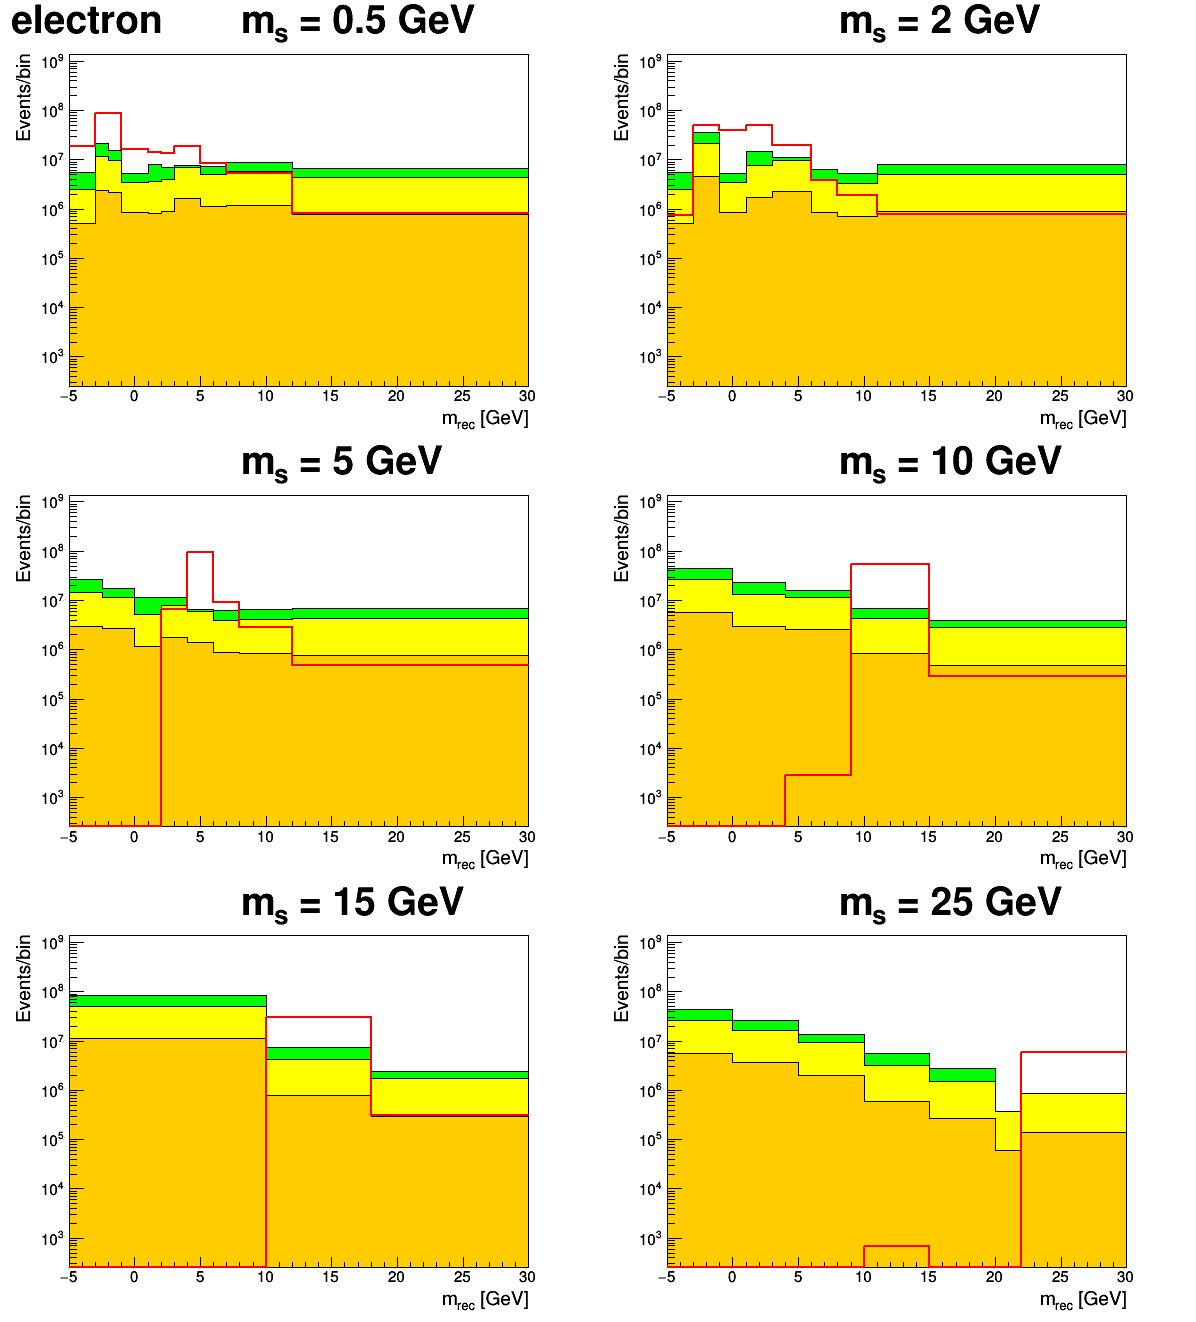
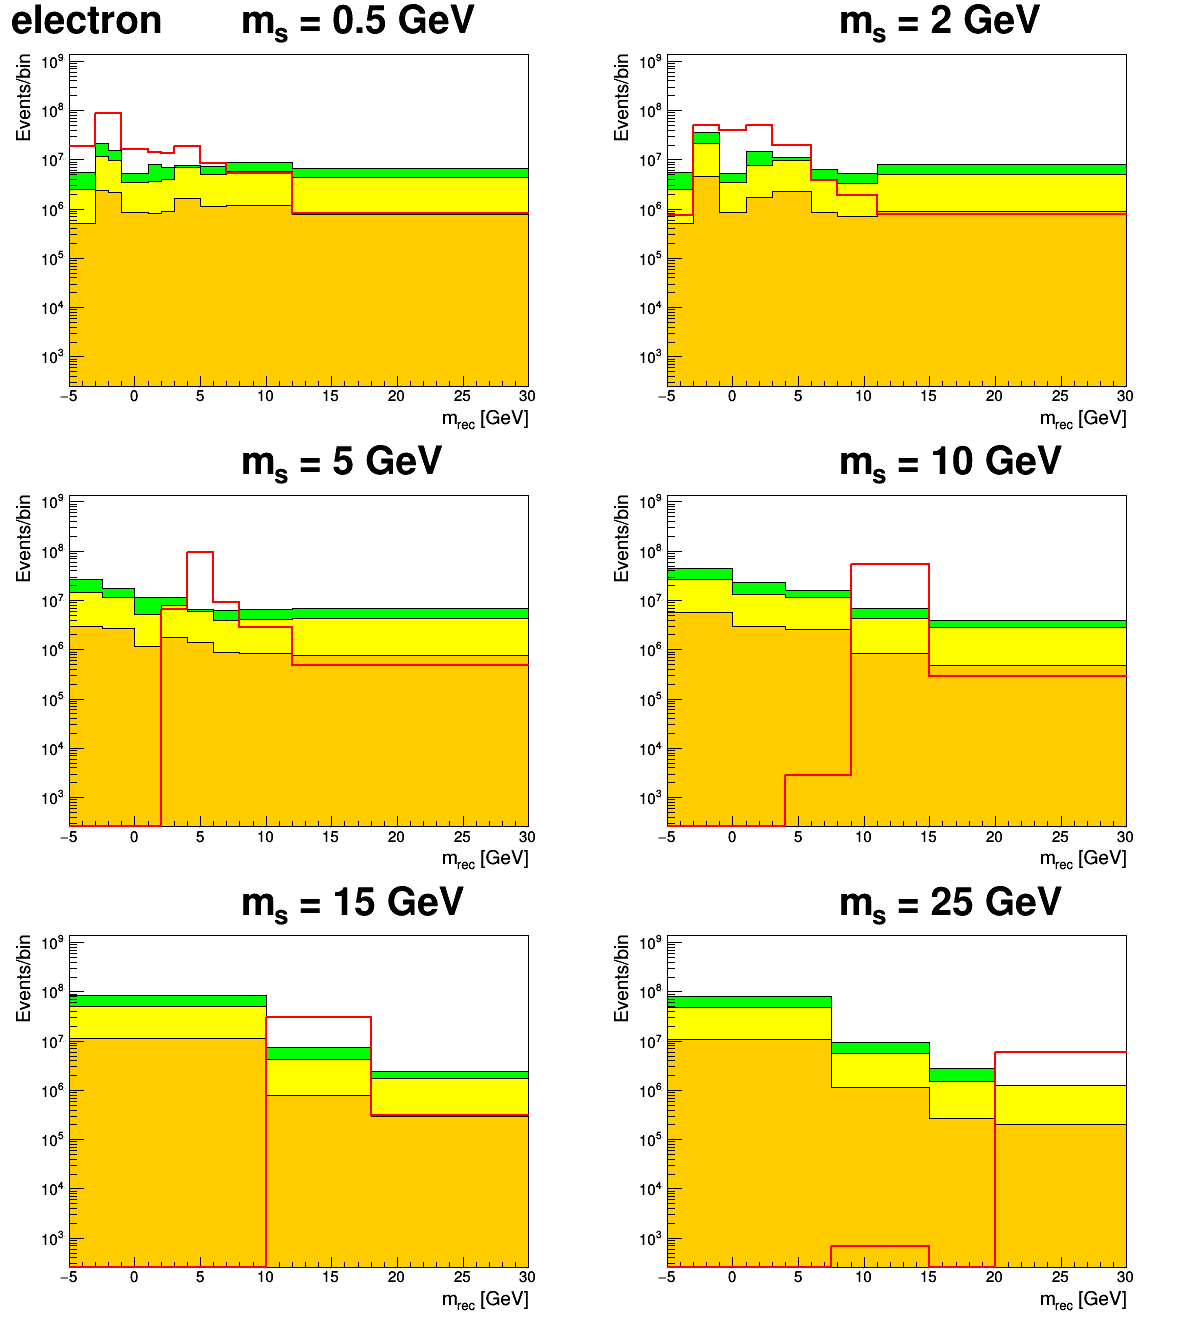
poster updates

Changed region(s): [[0.5569, 0.7443, 0.7734, 0.8374], [0.8043, 0.8064, 0.9281, 0.8684]]

diff --git a/scripts/cutflow_in_dev.py b/scripts/cutflow_in_dev.py
@@ -642,7 +642,7 @@ for fs_chn in channels:
 
 			binning[fs_chn]['15'] = array('d', [-5, 10, 18, 30.0])
 #			binning[fs_chn]['15'] = array('d', [-5,-2,1,4,7,10, 14,17, 20, 30.0])
-			binning[fs_chn]['25'] = array('d', [-5, 0, 5, 10,15, 20,22, 30.0])
+			binning[fs_chn]['25'] = array('d', [-5,7.5,15, 20, 30.0])
 #			binning[fs_chn]['25'] = array('d', [-5,-4.5,-4,-3.5,-3,-2.5,-2,-1.5,-1,-0.5,0,0.5,1,1.5,2,2.5,3,3.5,4,4.5,5,5.5,6,6.5,7,7.5,8,9, 10,12, 15, 20, 30.0])
 			#binning[fs_chn][pd_chn] = array('d',binning[fs_chn][pd_chn])
 print binning
@@ -777,9 +777,9 @@ for fs_chn in channels:
 		                          + '_' + bin_option+ "_binning.png")
 
 ctf_hist_file.Close()
-for key, f in sig_ntuple_filepaths.items():
-	delphes_filepath = delphes_path + hlp.get_delphes_filename(f)
-	print key, hlp.get_num_evts(delphes_filepath, "Delphes")
-for key, f in bkg_ntuple_filepaths.items():
-	delphes_filepath = delphes_path + hlp.get_delphes_filename(f)
-	print key, hlp.get_num_evts(delphes_filepath, "Delphes")
+#for key, f in sig_ntuple_filepaths.items():
+#	delphes_filepath = delphes_path + hlp.get_delphes_filename(f)
+#	print key, hlp.get_num_evts(delphes_filepath, "Delphes")
+#for key, f in bkg_ntuple_filepaths.items():
+#	delphes_filepath = delphes_path + hlp.get_delphes_filename(f)
+#	print key, hlp.get_num_evts(delphes_filepath, "Delphes")

diff --git a/combine/make_limit_plot.py b/combine/make_limit_plot.py
@@ -182,7 +182,7 @@ def makePlotUpperLimit():
     latex.SetTextColor(1)
     latex.SetTextFont(42)
     latex.SetTextAlign(33)
-    latex.DrawLatex(0.95, 0.995, "115.4 fb^{-1} \sqrt{s} = 91.2GeV ")
+    latex.DrawLatex(0.95, 0.995, "\mathrm{L}_{int} = 150 ab^{-1} \sqrt{s} = 91GeV ")
 
     # draw CMS preliminary
     latex.SetTextAlign(13)
@@ -217,7 +217,7 @@ if __name__ == "__main__":
     cfg_xtitle = "m_{S^{0}} (GeV)"
     cfg_ytitle = " limit on k for (#sigma_{S^{0}Z^{0}} = k * #sigma_{H^{0}Z^{0}} (m_{H^{0}_{SM}} = m_{S^{0}}))"
     
-    cfg_ymin, cfg_ymax = 0.001,1 
+    cfg_ymin, cfg_ymax = 0.002, 0.6
     
     fout = "limitPlot_IDEA_500MeV_auto.png"
 
